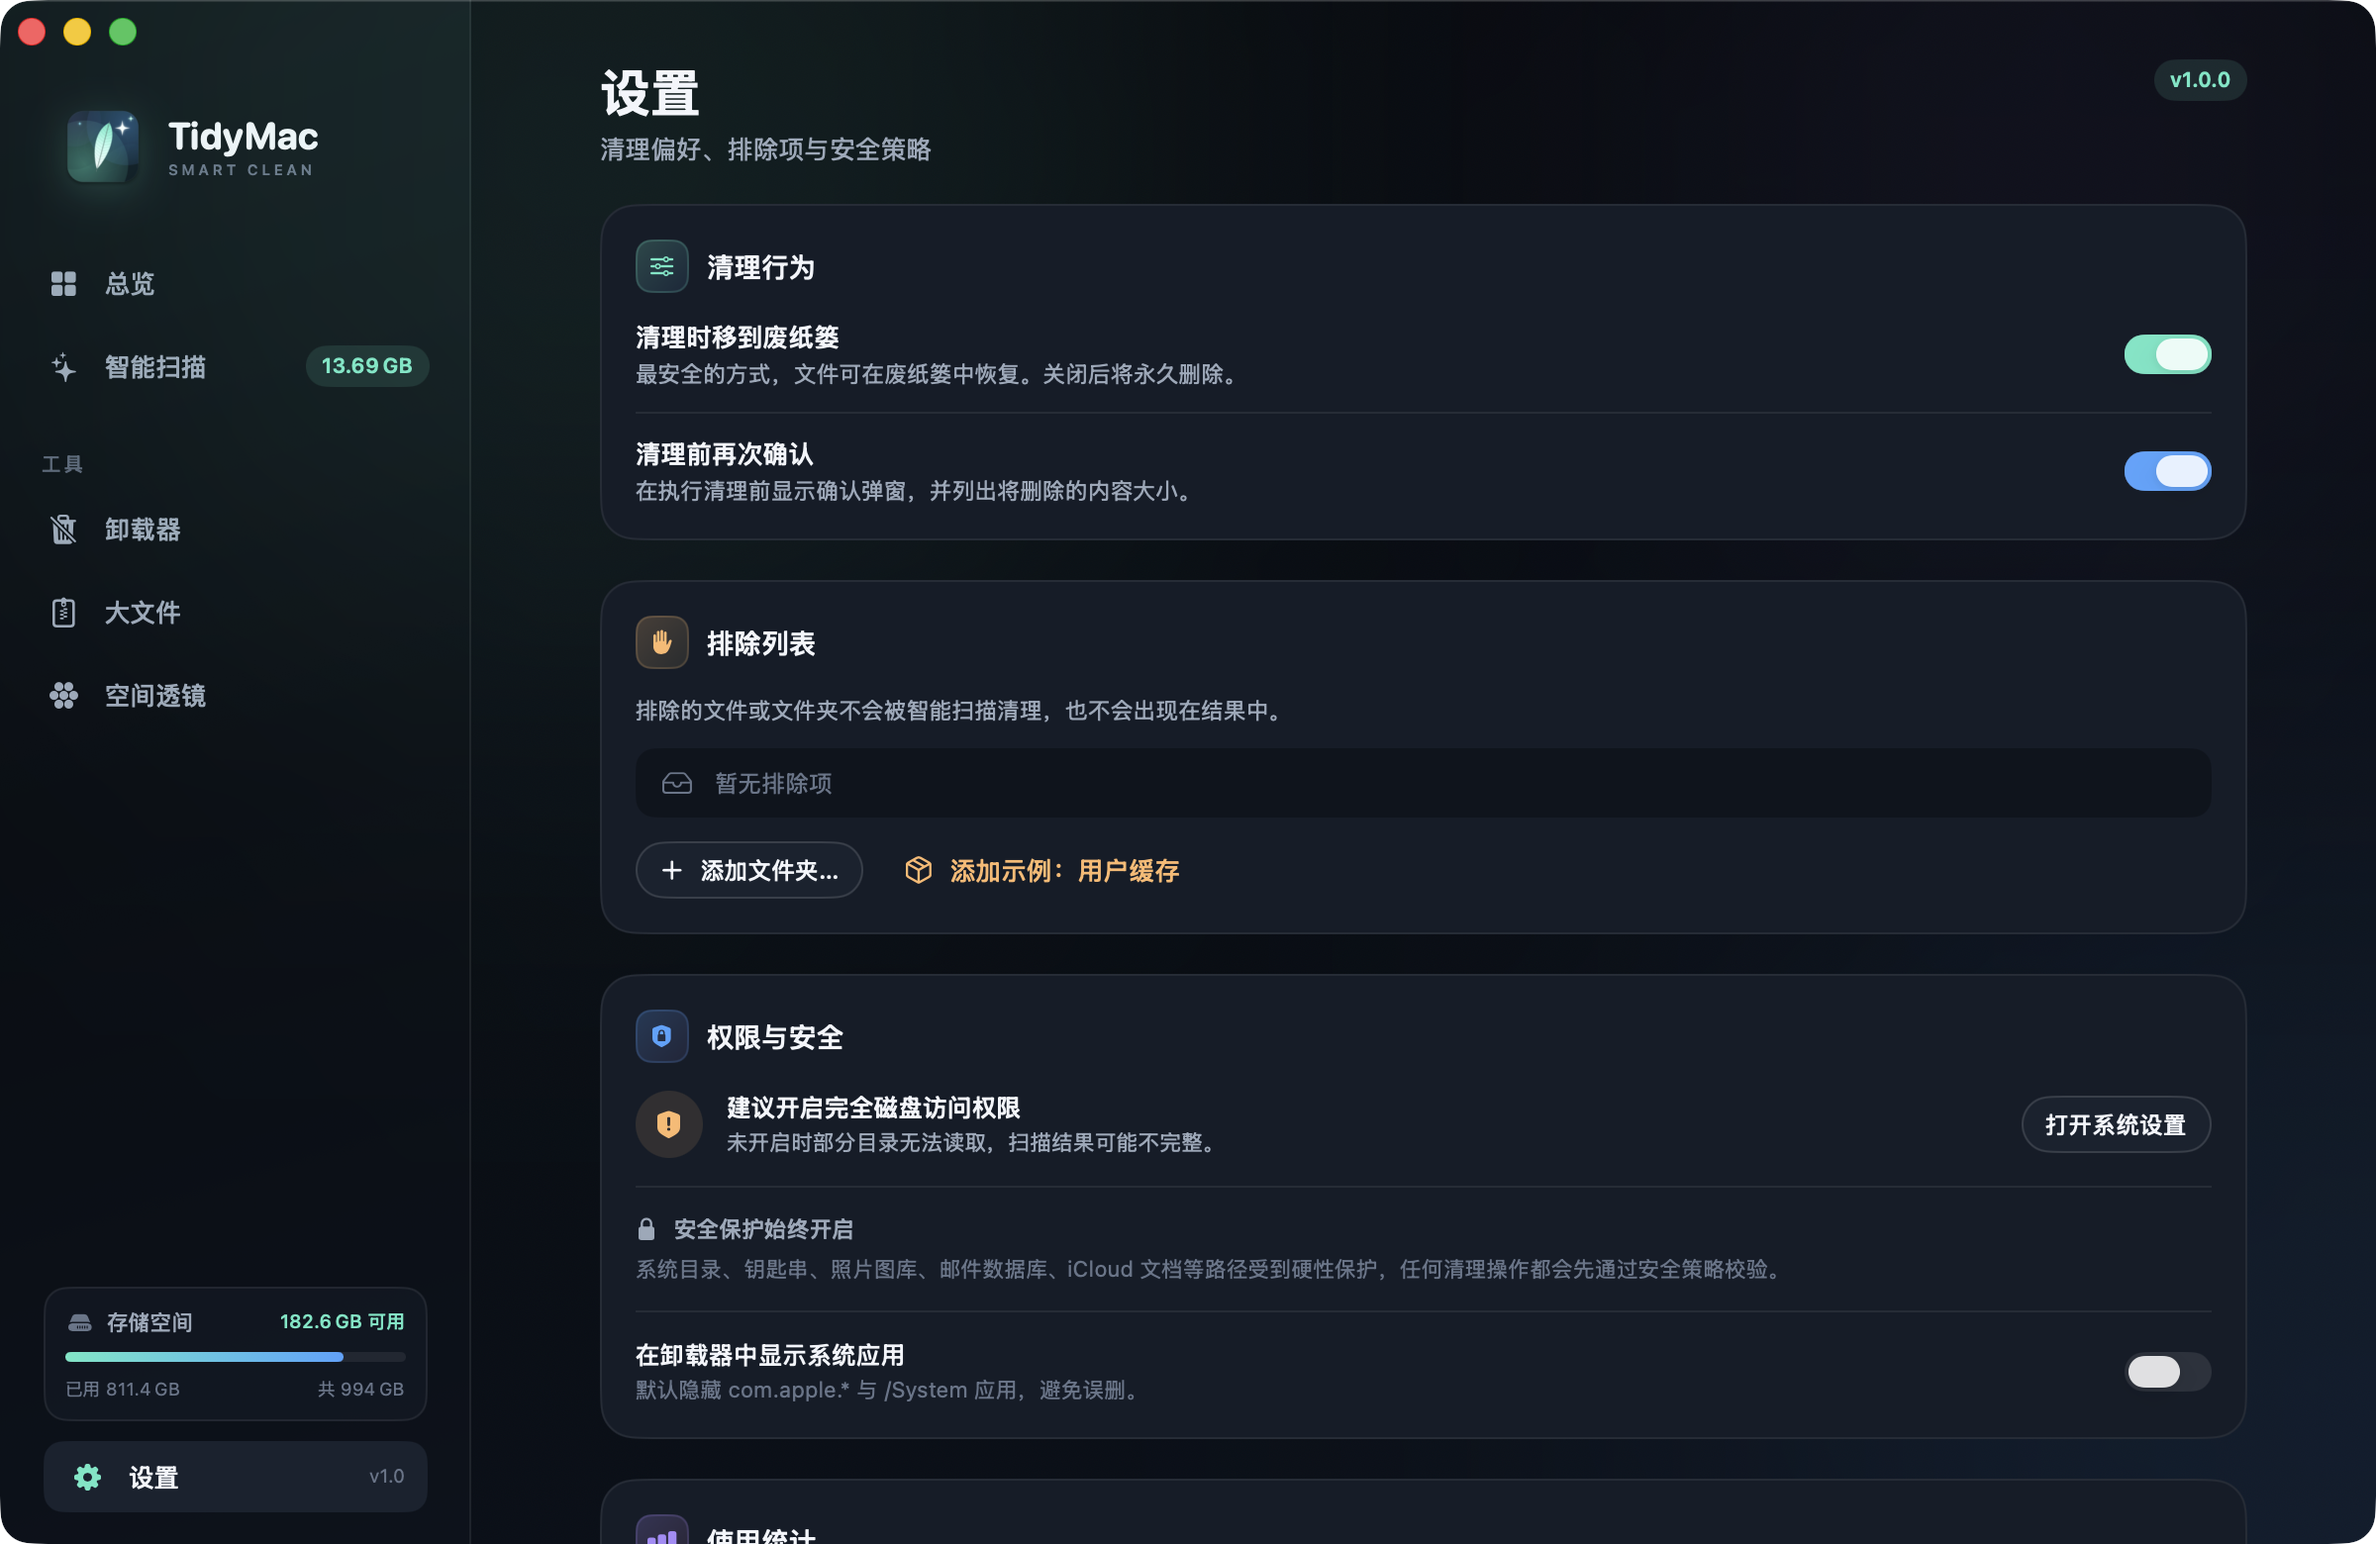
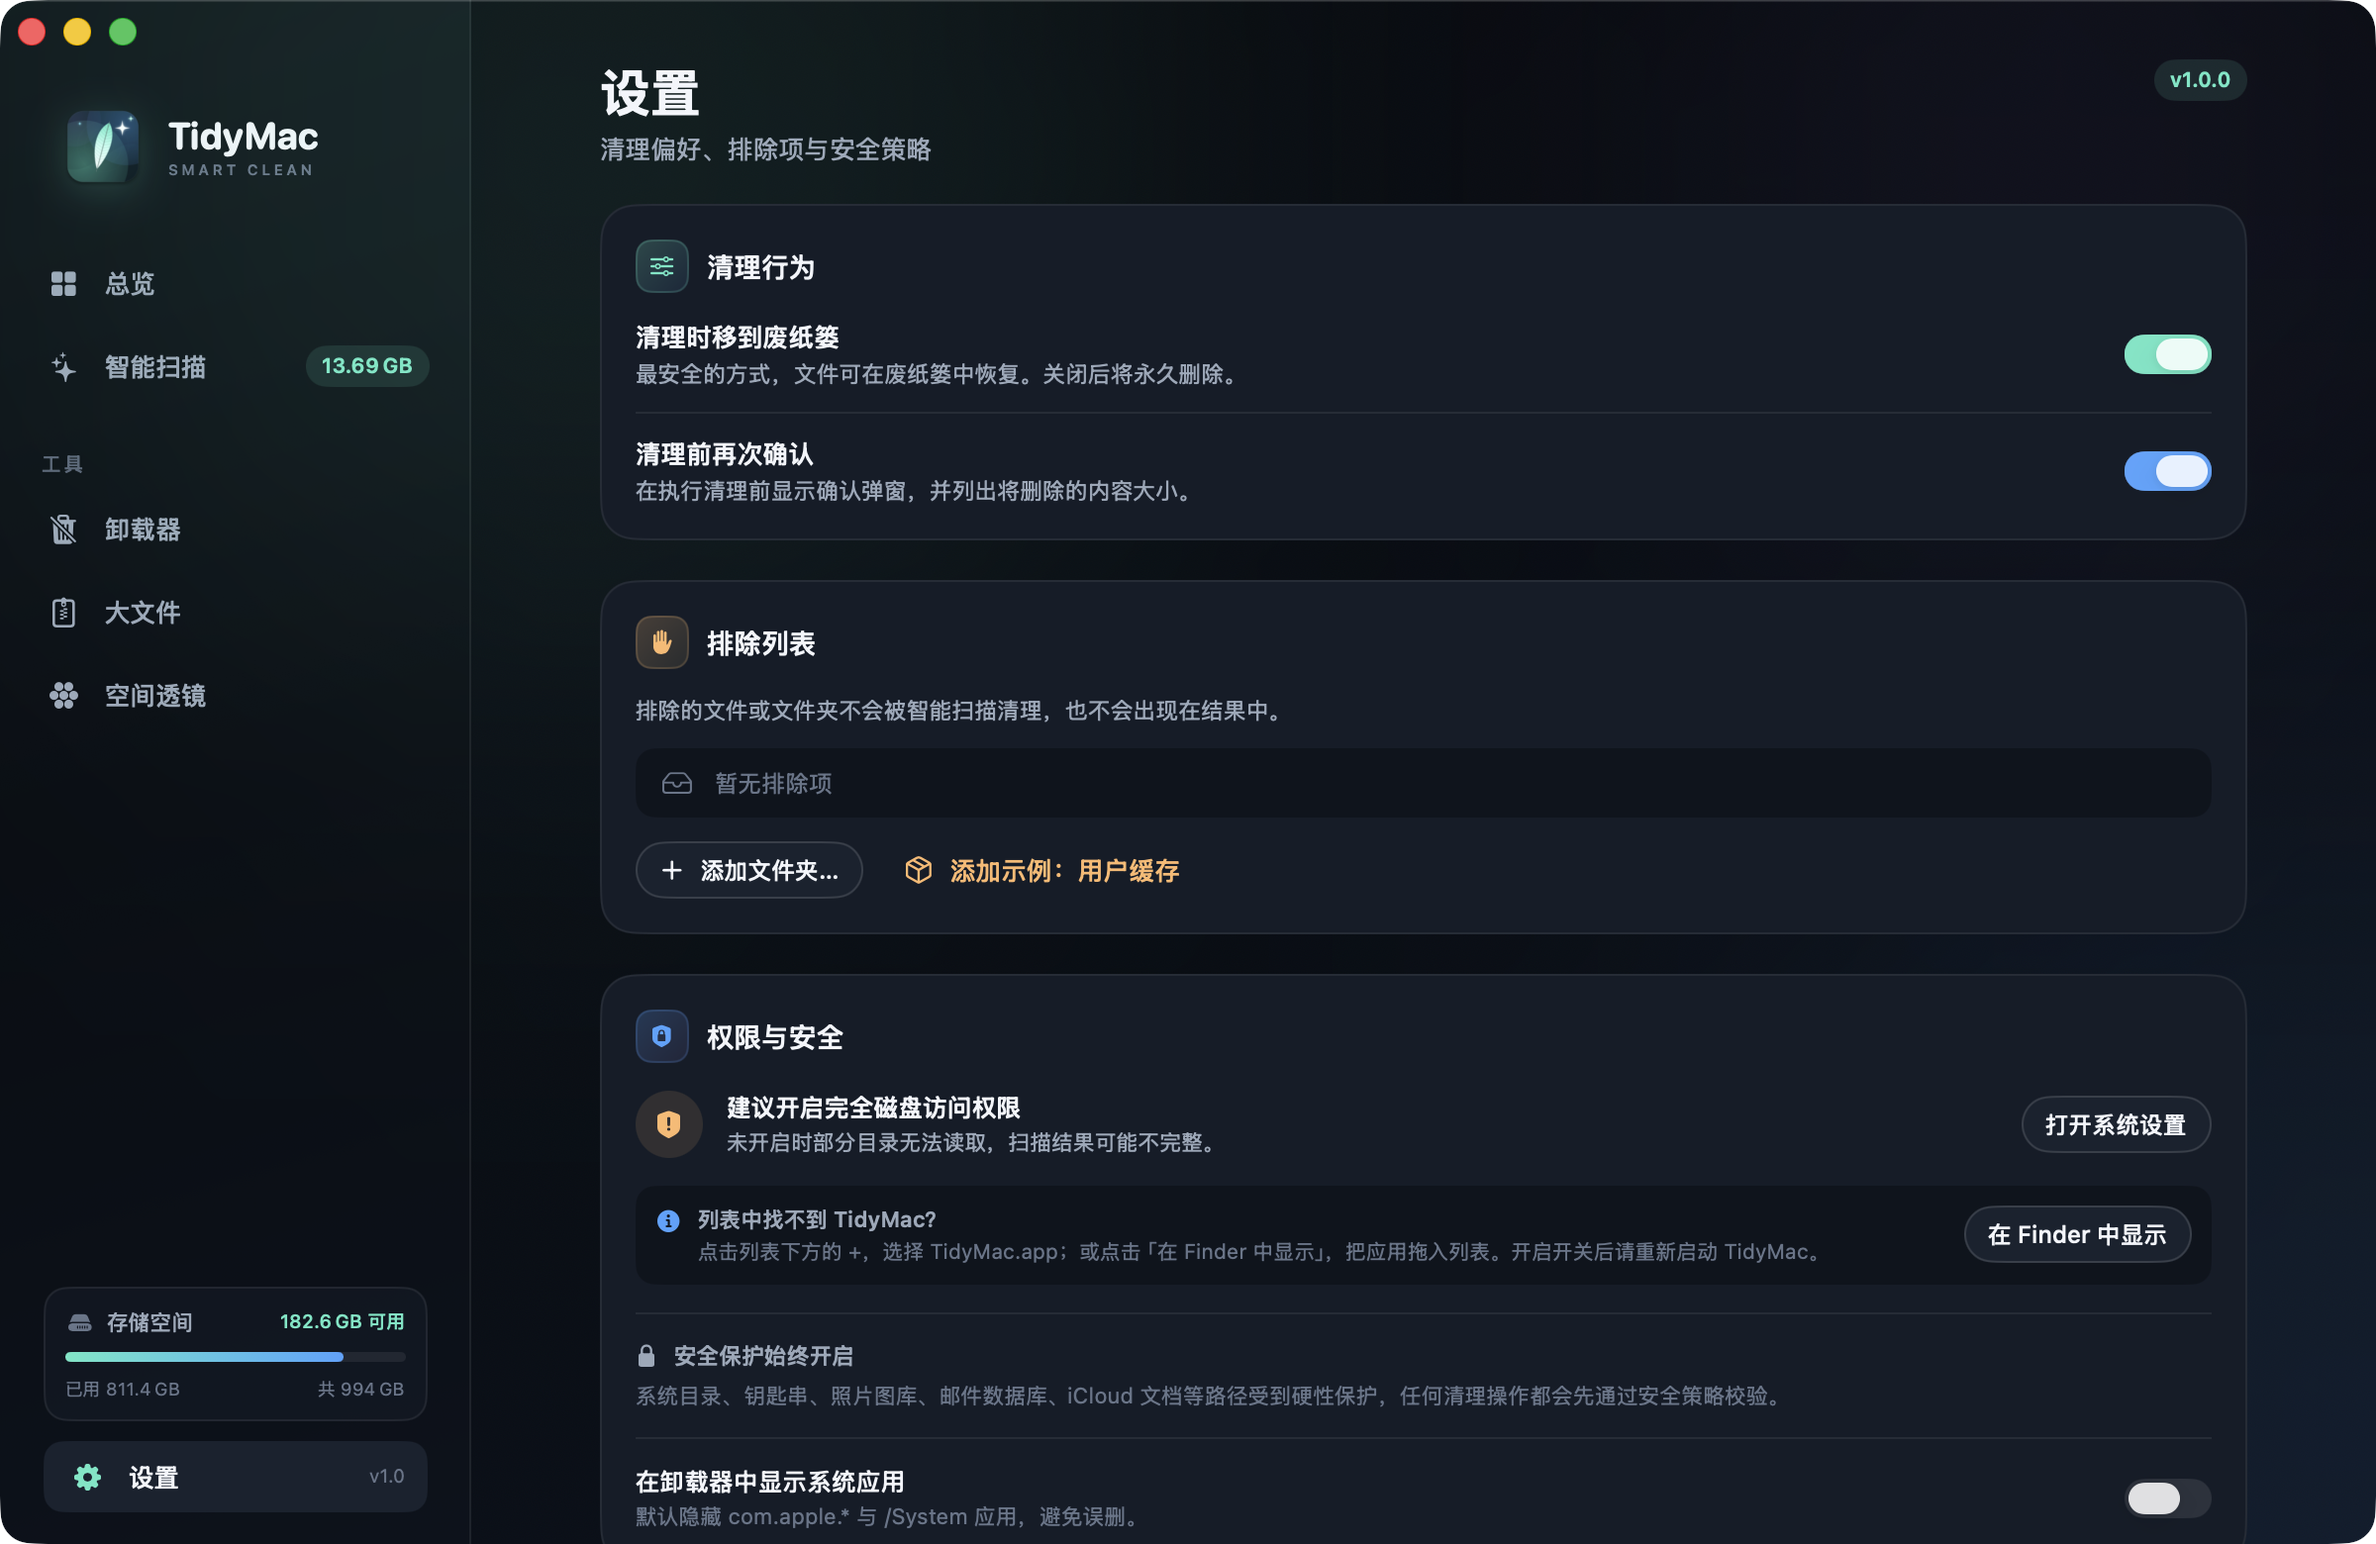
feat: guide users through full disk access and add install script

diff --git a/Sources/UI/SettingsPage.swift b/Sources/UI/SettingsPage.swift
@@ -228,6 +228,30 @@ struct SettingsPage: View {
                         .buttonStyle(SecondaryButtonStyle(tone: .blue, compact: true))
                 }
 
+                HStack(alignment: .top, spacing: 8) {
+                    Image(systemName: "info.circle.fill")
+                        .font(.system(size: 11, weight: .semibold))
+                        .foregroundStyle(Theme.blue)
+                        .padding(.top, 1)
+                    VStack(alignment: .leading, spacing: 3) {
+                        Text("列表中找不到 TidyMac？")
+                            .font(.system(size: 11, weight: .semibold))
+                            .foregroundStyle(Theme.textSecondary)
+                        Text("点击列表下方的 +，选择 TidyMac.app；或点击「在 Finder 中显示」，把应用拖入列表。开启开关后请重新启动 TidyMac。")
+                            .font(.system(size: 10.5))
+                            .foregroundStyle(Theme.textTertiary)
+                            .fixedSize(horizontal: false, vertical: true)
+                    }
+                    Spacer(minLength: 8)
+                    Button("在 Finder 中显示") { AppPermissionActions.revealApplicationInFinder() }
+                        .buttonStyle(SecondaryButtonStyle(tone: .blue, compact: true))
+                }
+                .padding(10)
+                .background(
+                    RoundedRectangle(cornerRadius: 10, style: .continuous)
+                        .fill(Theme.field)
+                )
+
                 DividerLine()
 
                 VStack(alignment: .leading, spacing: 6) {

diff --git a/Sources/UI/DashboardComponents.swift b/Sources/UI/DashboardComponents.swift
@@ -549,12 +549,25 @@ struct DashboardPermissionBanner: View {
                 Text("授予完全磁盘访问权限")
                     .font(.system(size: 12.5, weight: .semibold))
                     .foregroundStyle(Theme.textPrimary)
-                Text("部分邮件附件、系统缓存与备份需要该权限才能被扫描和清理。")
+                Text("部分邮件附件与备份需要授权。列表中若没有 TidyMac，点击 + 添加。")
                     .font(.system(size: 10.5))
                     .foregroundStyle(Theme.textSecondary)
                     .lineLimit(1)
             }
             Spacer(minLength: 8)
+            Button {
+                AppPermissionActions.revealApplicationInFinder()
+            } label: {
+                HStack(spacing: 4) {
+                    Image(systemName: "folder")
+                        .font(.system(size: 9.5, weight: .semibold))
+                    Text("在 Finder 中显示")
+                }
+                .font(.system(size: 11))
+                .foregroundStyle(Theme.orange)
+            }
+            .buttonStyle(.plain)
+            .help("在 Finder 中显示 TidyMac，便于拖入完全磁盘访问列表")
             Button {
                 FullDiskAccess.openPrivacySettings()
             } label: {

diff --git a/Sources/UI/Components.swift b/Sources/UI/Components.swift
@@ -536,6 +536,14 @@ struct VisualEffectView: NSViewRepresentable {
     }
 }
 
+enum AppPermissionActions {
+    static var applicationURL: URL { Bundle.main.bundleURL }
+
+    static func revealApplicationInFinder() {
+        NSWorkspace.shared.activateFileViewerSelecting([applicationURL])
+    }
+}
+
 /// The real application icon, used anywhere the in-app brand mark is shown so
 /// it always matches the Dock / Finder icon.
 struct AppBrandIcon: View {

diff --git a/README.md b/README.md
@@ -70,7 +70,21 @@ TidyMac 是一个原生 SwiftUI macOS 应用：扫描系统缓存与开发者垃
 
 # 3. 运行
 open build/TidyMac.app
+
+# 4. 可选：安装到「应用程序」文件夹（方便授予完全磁盘访问权限）
+./scripts/install.sh
 ```
+
+### 完全磁盘访问权限
+
+macOS **不会自动**把第三方 App 加入「完全磁盘访问权限」列表，需要手动添加：
+
+1. 打开「系统设置 → 隐私与安全性 → 完全磁盘访问权限」
+2. 点击列表下方的 **+**
+3. 选择 `/Applications/TidyMac.app`（应用内权限提示条提供「在 Finder 中显示」按钮，可直接拖入列表）
+4. 打开 TidyMac 右侧的开关，然后**重启 TidyMac**
+
+未授权时，`~/Library/Mail`、`~/.Trash` 等受 TCC 保护的位置会被跳过，扫描结果可能不完整。
 
 演示模式（使用内置示例数据，不扫描真实磁盘）：
 
